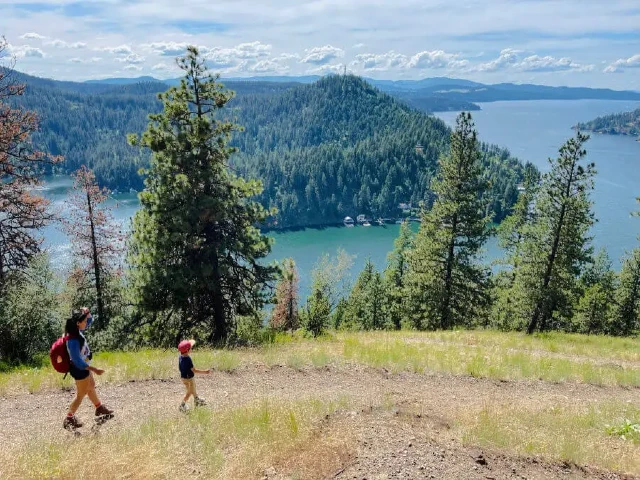
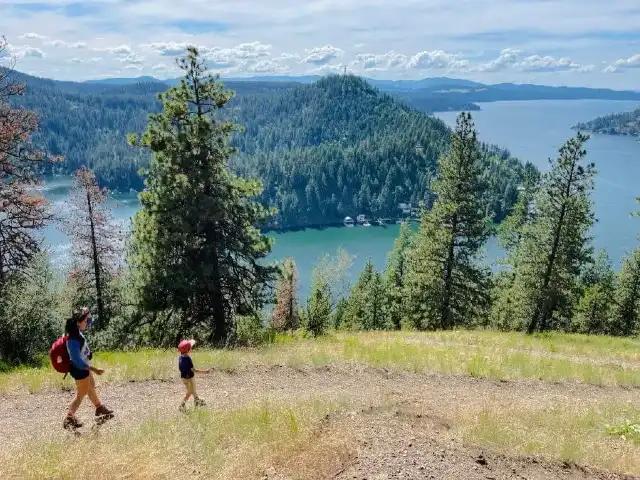
Compress images

diff --git a/chamber/index.html b/chamber/index.html
@@ -47,7 +47,7 @@
 
     <main>
         <div class="hero">
-            <img src="images/cda-aerial.jpg" alt="hero">
+            <img src="images/cda-aerial.webp" alt="hero">
             <div class="button"><a href="#">Join the Chamber</a></div>
         </div>
 
